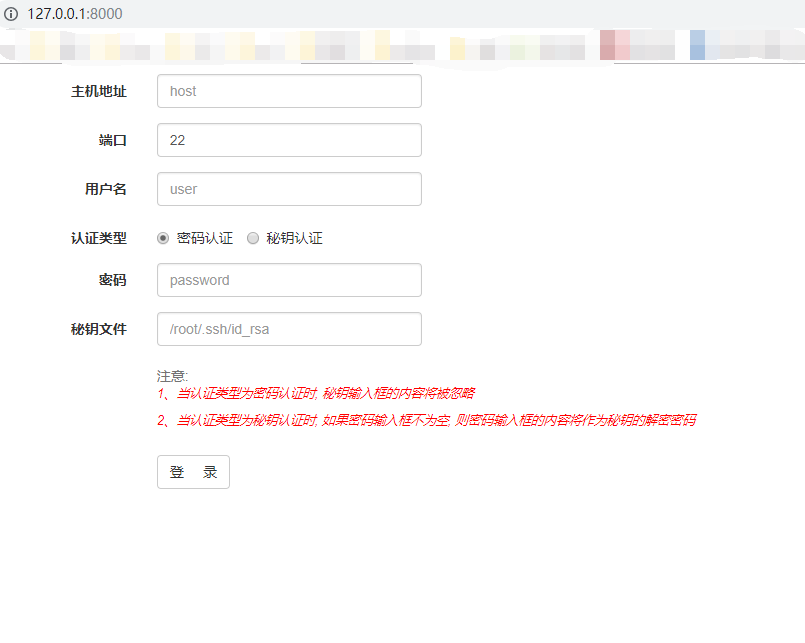
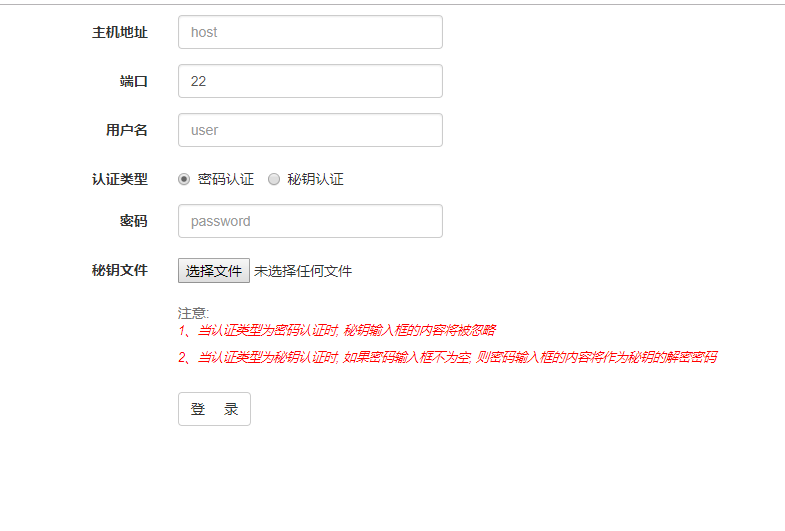
添加 ssh key 认证对 rsa、dsa、ecdsa、ed25519 的支持

diff --git a/webssh/static/webssh.js b/webssh/static/webssh.js
@@ -85,12 +85,12 @@ function post_data() {
 
 
 function get_term_size() {
-    var init_width = 8.9;
-    var init_height = 16.5;
+    var init_width = 9;
+    var init_height = 17;
 
     var windows_width = $(window).width();
     var windows_height = $(window).height();
-
+    console.log(windows_width, windows_height);
     return {
         cols: Math.floor(windows_width / init_width),
         rows: Math.floor(windows_height / init_height),
@@ -102,7 +102,6 @@ function webssh(unique) {
     var cols = get_term_size().cols;
     var rows = get_term_size().rows;
 
-    terminado.apply(Terminal);
     var term = new Terminal(
         {
             cols: cols,
@@ -115,14 +114,12 @@ function webssh(unique) {
         socketURL = protocol + location.hostname + ((location.port) ? (':' + location.port) : '') +
             '/webssh/?'+ 'unique=' + unique + '&width=' + cols + '&height=' + rows;
 
-    console.log(socketURL);
     var sock = new WebSocket(socketURL);
 
     sock.addEventListener('open', function () {
         $('#form').addClass('hide');
         $('#django-webssh-terminal').removeClass('hide');
-
-        term.terminadoAttach(sock);
+        term.open(document.getElementById('terminal'));
     });
 
     sock.addEventListener('message', function (recv) {
@@ -135,5 +132,5 @@ function webssh(unique) {
         sock.send(send_data)
     });
 
-    term.open(document.getElementById('terminal'));
+
 }

diff --git a/webssh/templates/index.html b/webssh/templates/index.html
@@ -12,6 +12,10 @@
             width: 20%;
             display: inline-block;
         }
+
+        .hide {
+            display: none;
+        }
     </style>
 </head>
 <body>
@@ -63,9 +67,6 @@
         <div class="form-group">
             <label class="col-sm-2 control-label">秘钥文件</label>
             <div class="col-sm-10">
-                <!--
-                <input type="text" class="input-width form-control" id="pkey" name="pkey" placeholder="/root/.ssh/id_rsa">
-                -->
                 <input type="file" id="pkey" style="margin-top: 5px">
             </div>
         </div>
@@ -84,11 +85,6 @@
 
         <div class="form-group">
             <div class="col-sm-offset-2 col-sm-10">
-                <!--
-                <button type="button" class="btn btn-default" onclick="webssh()">登&nbsp;&nbsp;&nbsp;&nbsp;&nbsp;录</button>
-
-                <button type="submit" class="btn btn-default">登&nbsp;&nbsp;&nbsp;&nbsp;&nbsp;录</button>
-                -->
                 <button type="button" class="btn btn-default" onclick="post_data()">登&nbsp;&nbsp;&nbsp;&nbsp;&nbsp;录
                 </button>
             </div>
@@ -103,7 +99,6 @@
 
 <script src="/static/jquery.min.js"></script>
 <script src="/static/xterm/xterm.js"></script>
-<script src="/static/xterm/terminado.js"></script>
 <script src="/static/webssh.js"></script>
 </body>
 </html>

diff --git a/webssh/django_webssh/tools/ssh.py b/webssh/django_webssh/tools/ssh.py
@@ -1,7 +1,9 @@
 import paramiko
 from threading import Thread
+from django_webssh.tools.tools import get_key_obj
 import socket
 import json
+
 
 
 class SSH:
@@ -15,7 +17,11 @@ class SSH:
             ssh_client.set_missing_host_key_policy(paramiko.AutoAddPolicy())
 
             if pkey:
-                key = paramiko.RSAKey.from_private_key(pkey, password=password)
+                key = get_key_obj(paramiko.RSAKey, pkey_obj=pkey, password=password) or \
+                get_key_obj(paramiko.DSSKey, pkey_obj=pkey, password=password) or \
+                get_key_obj(paramiko.ECDSAKey, pkey_obj=pkey, password=password) or \
+                get_key_obj(paramiko.Ed25519Key, pkey_obj=pkey, password=password)
+
                 ssh_client.connect(username=user, hostname=host, port=port, pkey=key, timeout=timeout)
             else:
                 ssh_client.connect(username=user, password=password, hostname=host, port=port, timeout=timeout)

diff --git a/webssh/django_webssh/tools/tools.py b/webssh/django_webssh/tools/tools.py
@@ -10,7 +10,6 @@ import random
 import hashlib
 
 
-
 class ValidationData(forms.ModelForm):
     class Meta:
         model = models.HostTmp
@@ -24,3 +23,18 @@ def unique():
     m.update(bytes(ctime, encoding='utf-8'))
     return m.hexdigest()
 
+
+def get_key_obj(pkeyobj, pkey_file=None, pkey_obj=None, password=None):
+    if pkey_file:
+        with open(pkey_file) as fo:
+            try:
+                pkey = pkeyobj.from_private_key(fo, password=password)
+                return pkey
+            except:
+                pass
+    else:
+        try:
+            pkey = pkeyobj.from_private_key(pkey_obj, password=password)
+            return pkey
+        except:
+            pkey_obj.seek(0)
